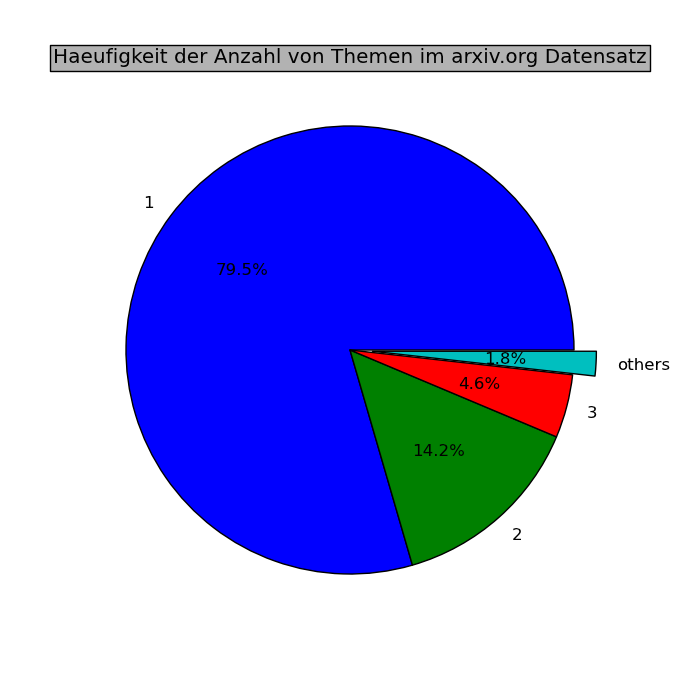
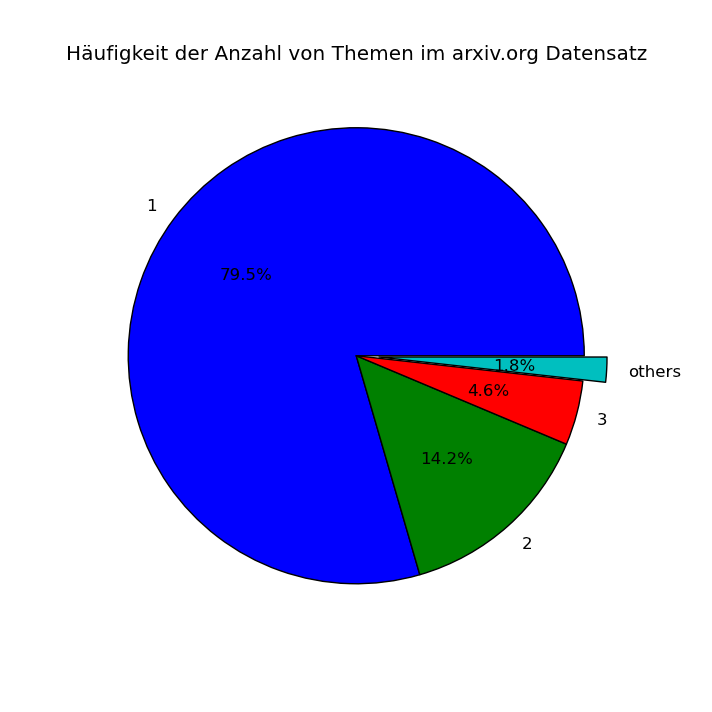
Piechart überarbeitet

diff --git a/visual/pieFrequency.py b/visual/pieFrequency.py
@@ -40,6 +40,6 @@ fracs = [int(item0[1])/total,int(item1[1])/total,int(item2[1])/total,(int(item3[
 
 explode=(0, 0, 0, 0.1)
 pie(fracs, explode=explode, labels=labels, autopct='%1.1f%%', shadow = False)
-title('Haeufigkeit der Anzahl von Themen im arxiv.org Datensatz', bbox={'facecolor':'0.7', 'pad':5})
+title(u'Häufigkeit der Anzahl von Themen im arxiv.org Datensatz')
 
 show()
